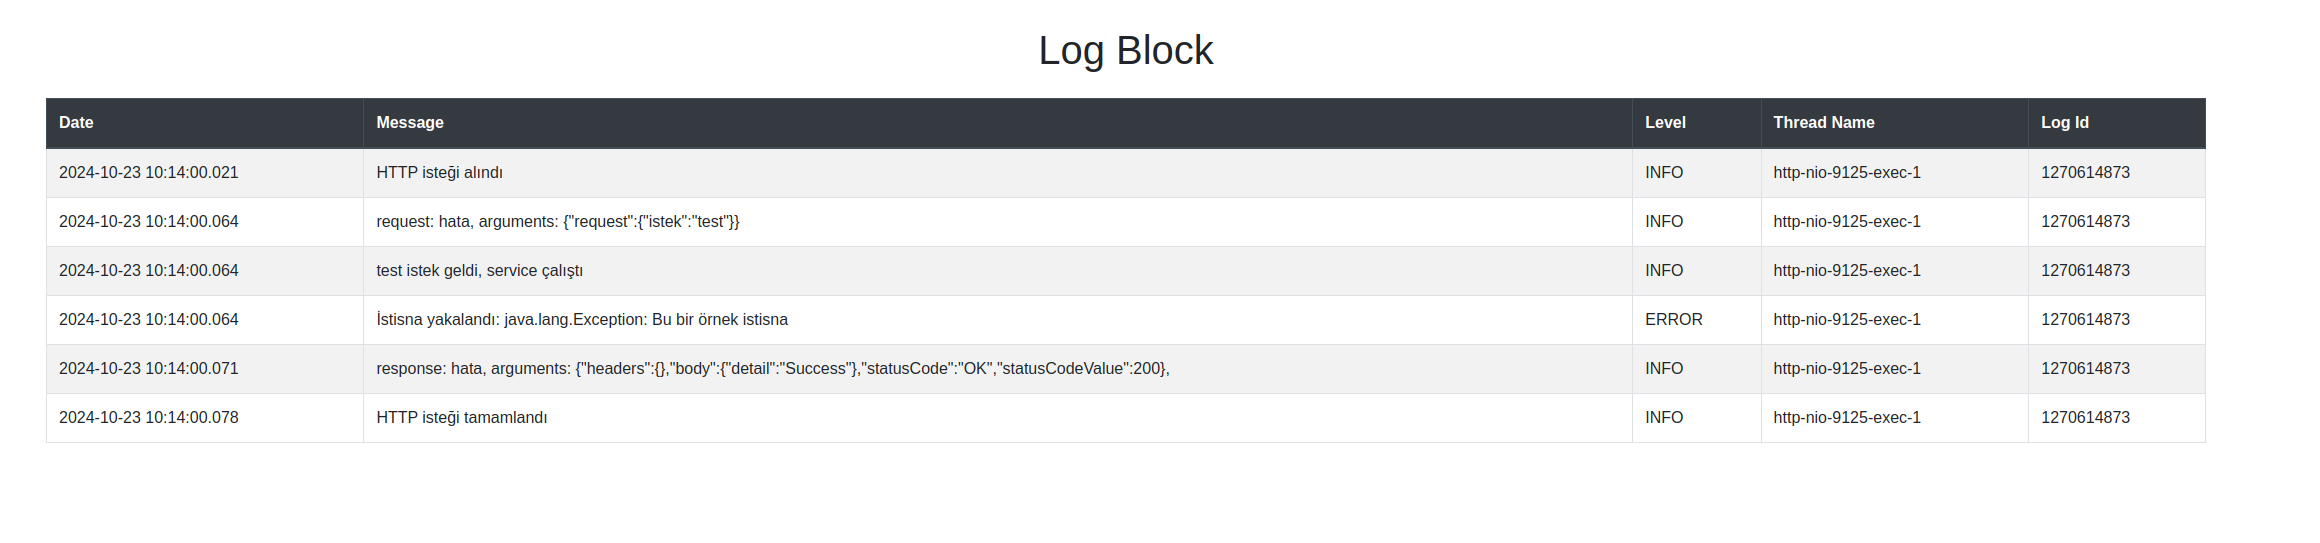
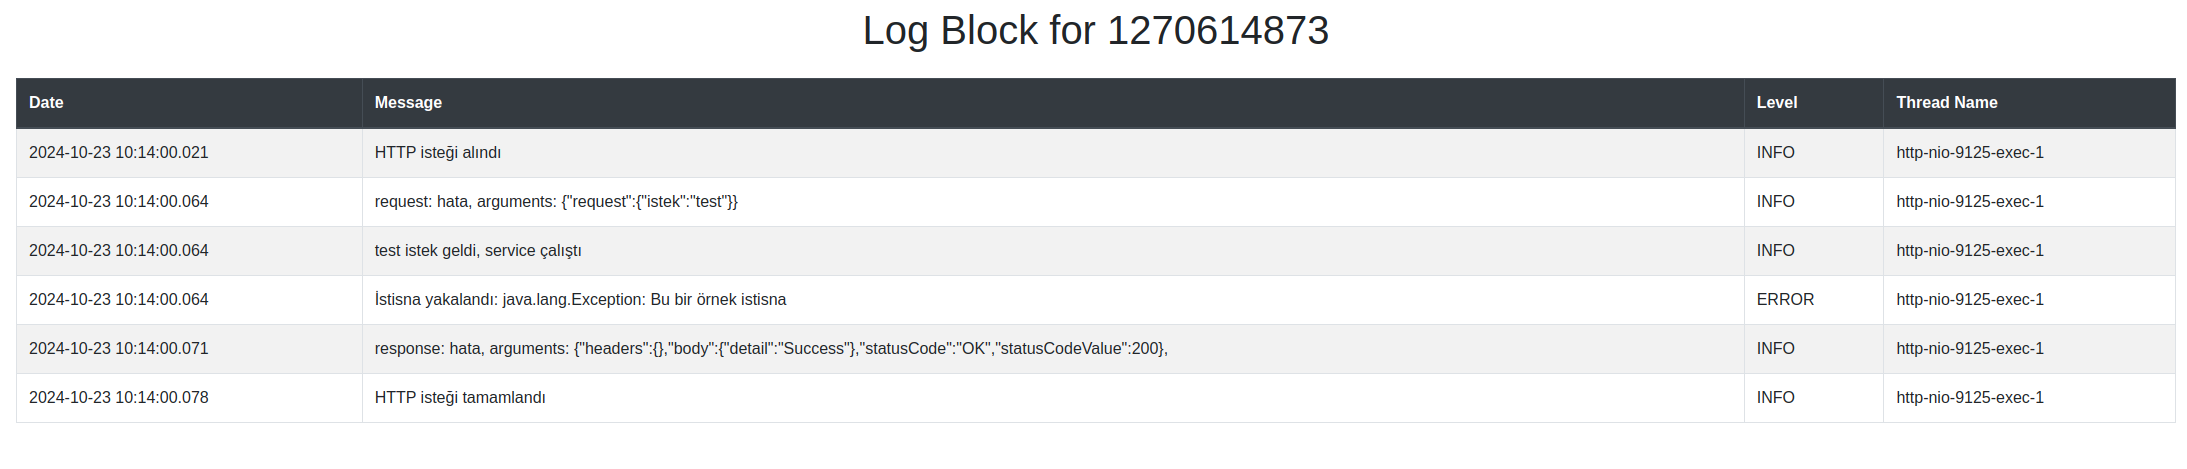
log block Id

diff --git a/src/main/resources/templates/logBlock.html b/src/main/resources/templates/logBlock.html
@@ -16,9 +16,8 @@
 </head>
 <body>
 <div class="custom-container mt-5">
-    <h1 class="text-center">Log Block</h1>
-
-    <div class="mt-4">
+    <h1 class="text-center" th:text="'Log Block for ' + ${logId}"></h1>
+   <div class="mt-4">
         <table class="table table-striped table-bordered">
             <thead class="thead-dark">
             <tr>
@@ -26,7 +25,6 @@
                 <th>Message</th>
                 <th>Level</th>
                 <th>Thread Name</th>
-                <th>Log Id</th>
             </tr>
             </thead>
             <tbody>
@@ -35,7 +33,6 @@
                 <td th:text="${log.message}">Mesaj</td>
                 <td th:text="${log.level}">Seviye</td>
                 <td th:text="${log.threadName}">İş Parçacığı</td>
-                <td th:text="${log.logId}">Log Id</td>
             </tr>
             </tbody>
         </table>

diff --git a/src/main/java/tr/gov/ptt/LogQualityDashboard/controller/LogController.java b/src/main/java/tr/gov/ptt/LogQualityDashboard/controller/LogController.java
@@ -47,6 +47,7 @@ public class LogController {
     public String getLogDetails(@PathVariable String indexName, @PathVariable String logId, Model model) {
         List<Map> logDetails = elasticsearchService.getLogById(indexName, logId);
         model.addAttribute("logDetails", logDetails);
+        model.addAttribute("logId", logId);
         return "logBlock";
     }
 }
